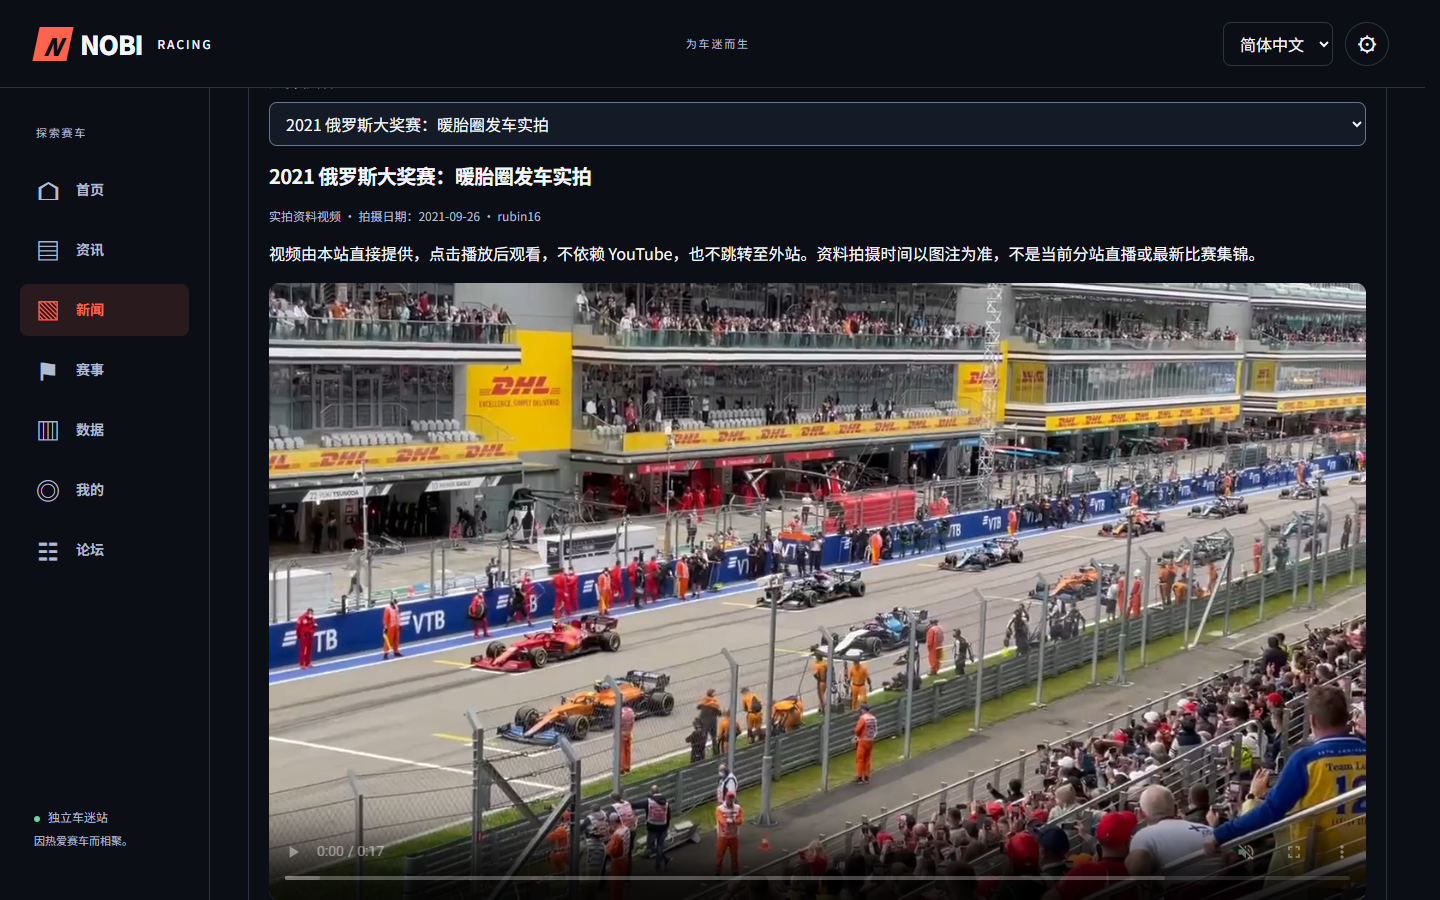
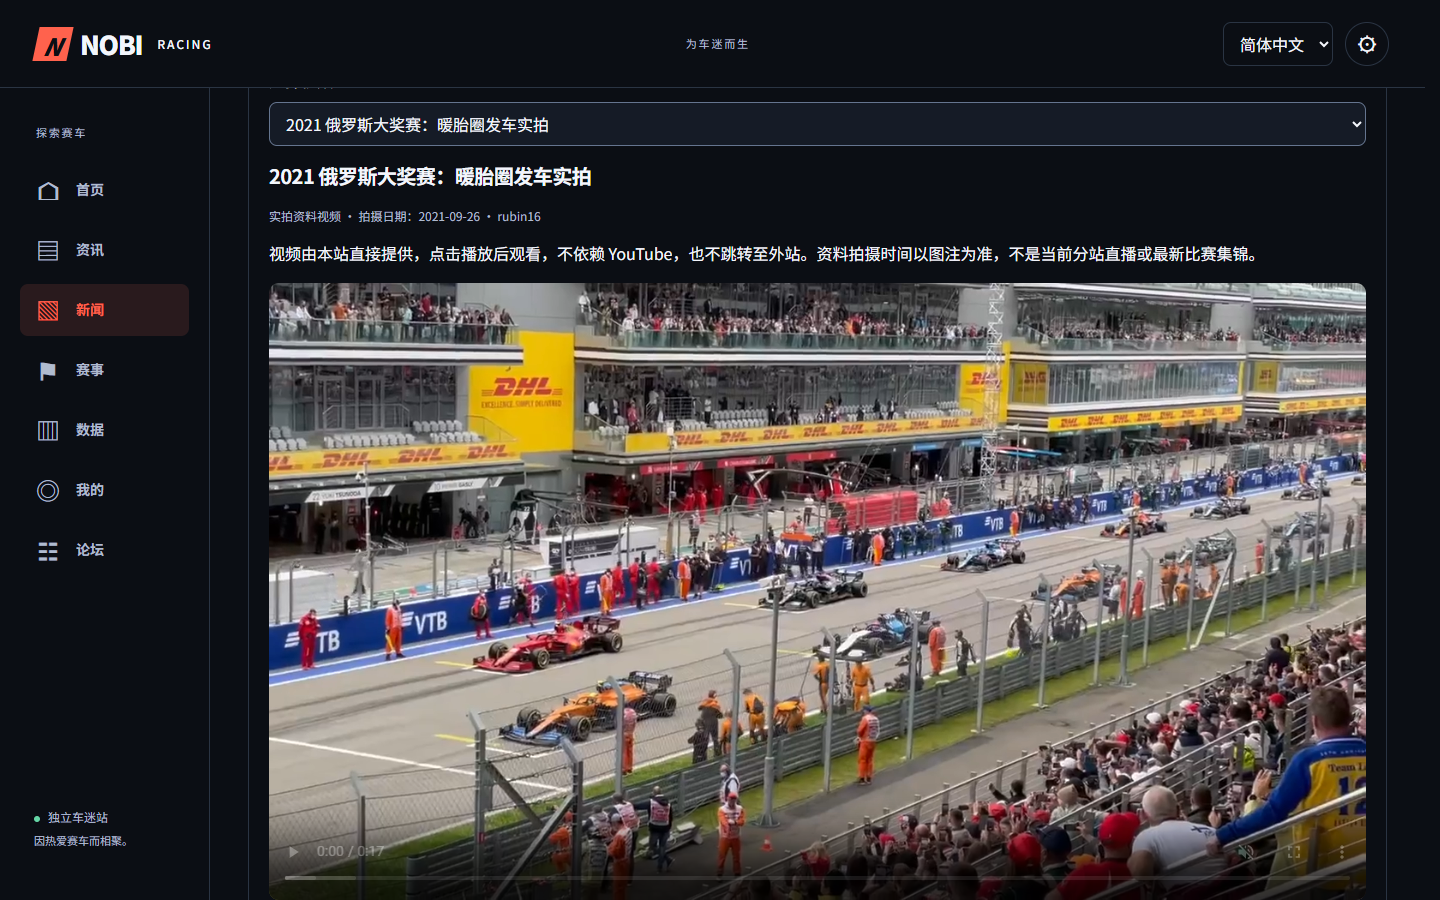
Record verified in-app reading and MP4 rollout with TestFlight 107

Changed region(s): [[0.1875, 0.3111, 0.9688, 1.0]]

diff --git a/docs/phases/news-reader.md b/docs/phases/news-reader.md
@@ -22,3 +22,12 @@
 本机 Edge 桌面、WebKit 320/390px 均完成三段视频的实际播放，媒体无解码错误、播放时间推进，所有 HTTP 请求来自本站，没有新窗口。检查中英正文切换和新闻详情归属，手机视口 scale=1、底栏高度 64px。切换视频复用媒体元素；离开视频分页或页面时显式暂停并卸载媒体，避免残留解码和网络资源。浏览器产生的同源 `blob:` 媒体缓冲不计为外站网络请求，CSP 允许该缓冲用途。
 
 最终 lint、类型检查/前端构建、3 个基线测试、49 个前端单元测试、11 个公开服务测试通过。受本机内存约束，浏览器、构建与单元测试串行执行；前端单测使用一个工作进程。没有关闭其他项目或用户应用。
+
+## 发布结果
+
+- 香港站点 release `20261103064209`，代码提交 `cdea91b`。公网提供 10 篇本站双语报道，新闻索引继续按上游可用性自动同步；源端暂缓时保留真实延迟状态，不声明秒级更新或发布者全文译载。
+- 公网 Edge 桌面、WebKit 320/390px 均通过站内正文、语言切换、五项底栏及三段视频播放验收，无外站 HTTP 请求或新窗口。视频接口返回 `video/mp4`，分段请求为 206；旧播放器返回 410，SSE 数据事件和心跳正常。资料视频拍摄于 2026-03-06 / 2021-09-26，不冒充最新分站集锦。
+- 自有服务保持 `active/running`、自动重启次数 0，观测内存峰值约 117 MiB，低于 192 MiB 限额；未重置论坛数据库。
[1 lines of base64/hex data omitted]
+- iOS `1.0 (107)` 已经 [Codemagic 构建并上传](https://codemagic.io/app/6ae70684fd8c853064084b4a/build/6ae9826da5a91980eeb1664f)，Apple 于 2026-11-03 06:56 UTC 确认为 `VALID / IN_BETA_TESTING`，供现有内部测试组更新。已安装的原生版本需更新安装包后才能使用新的底栏、正文和视频功能；未进行实体 iPhone 安装播放验收。
+- 本次专用预览已停止，临时 SSH 密钥副本已移除。
